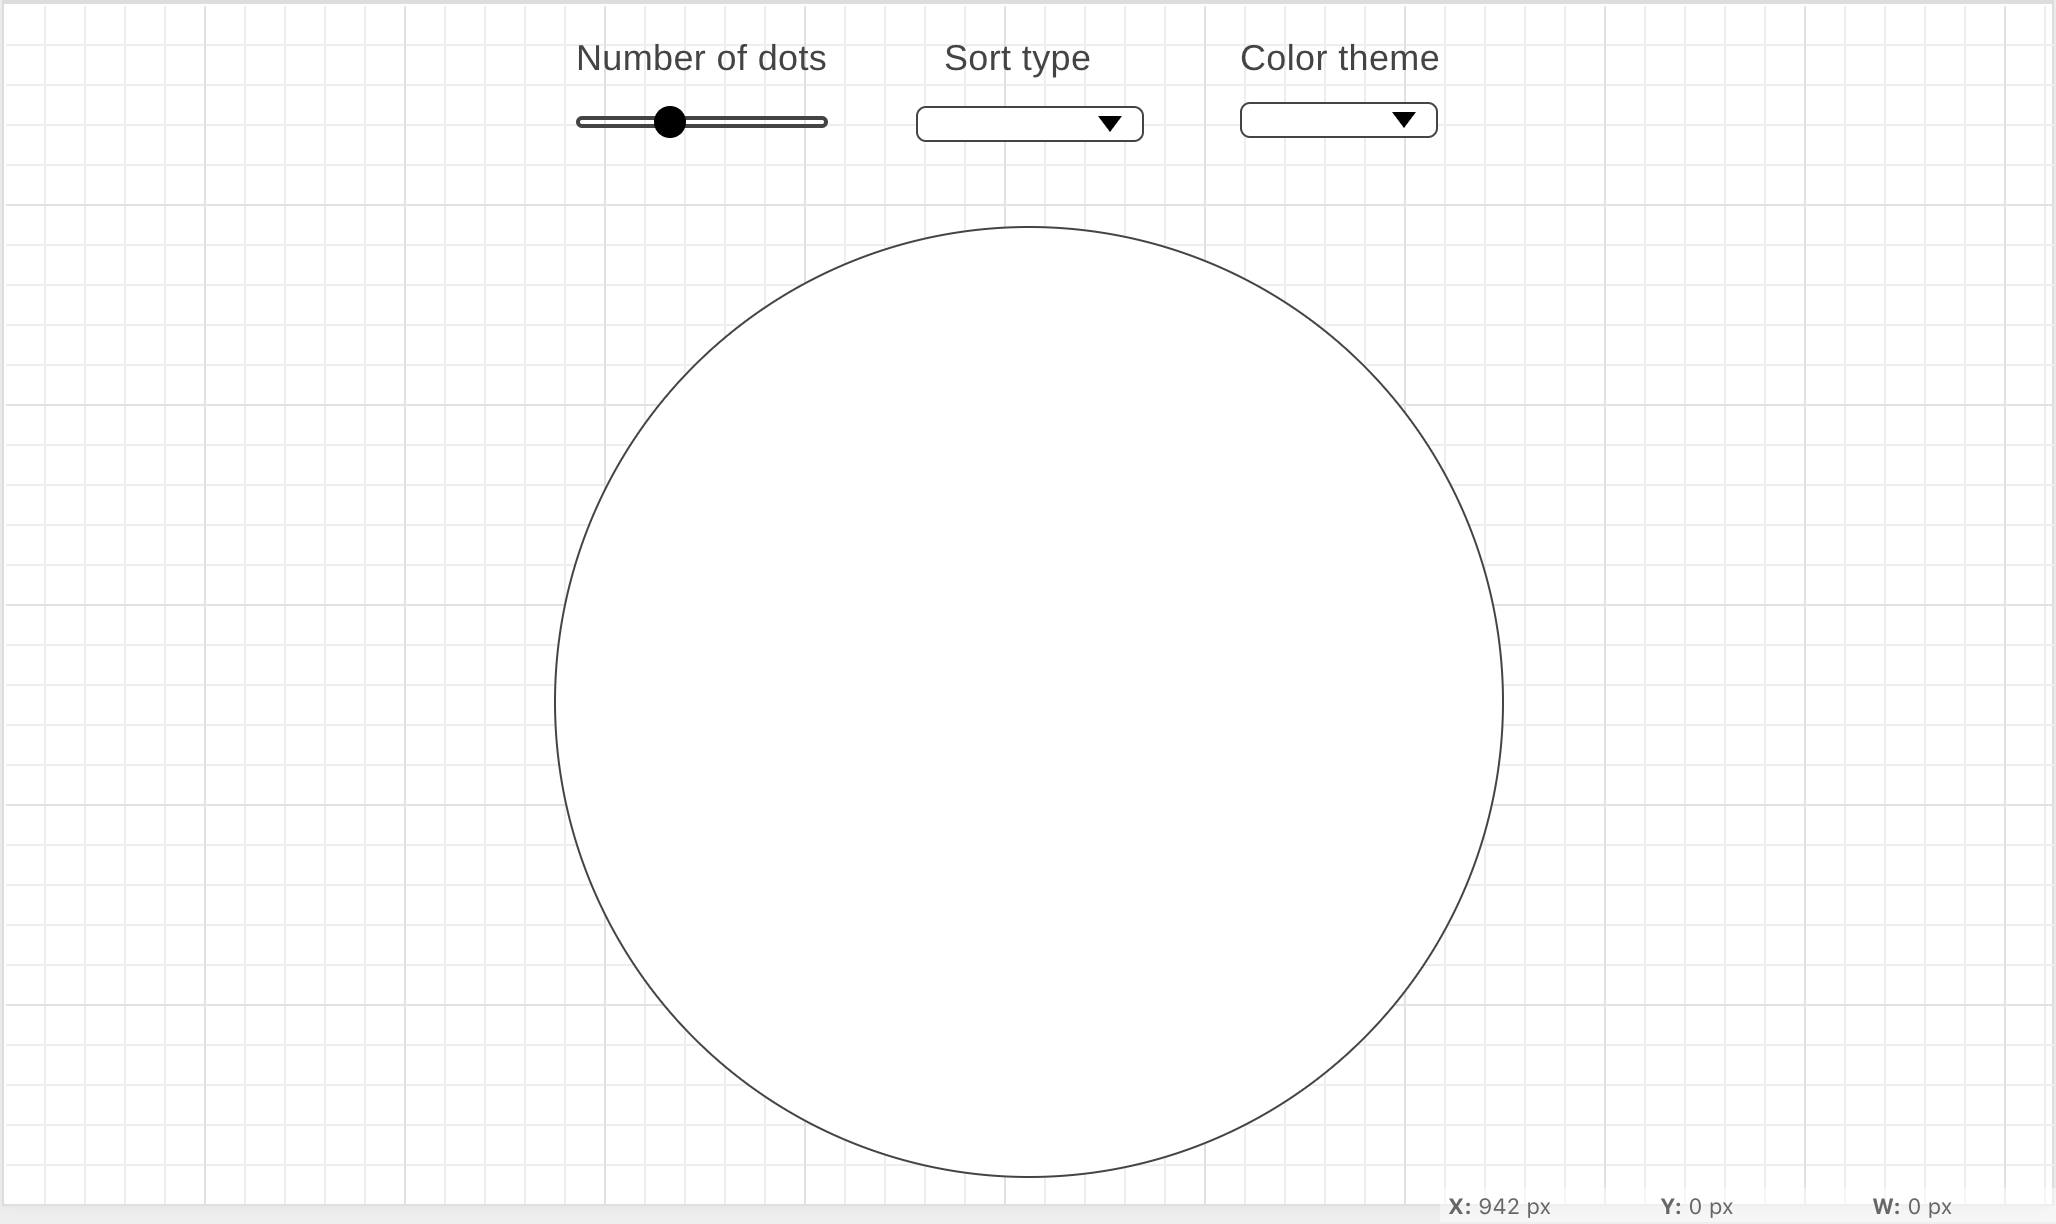
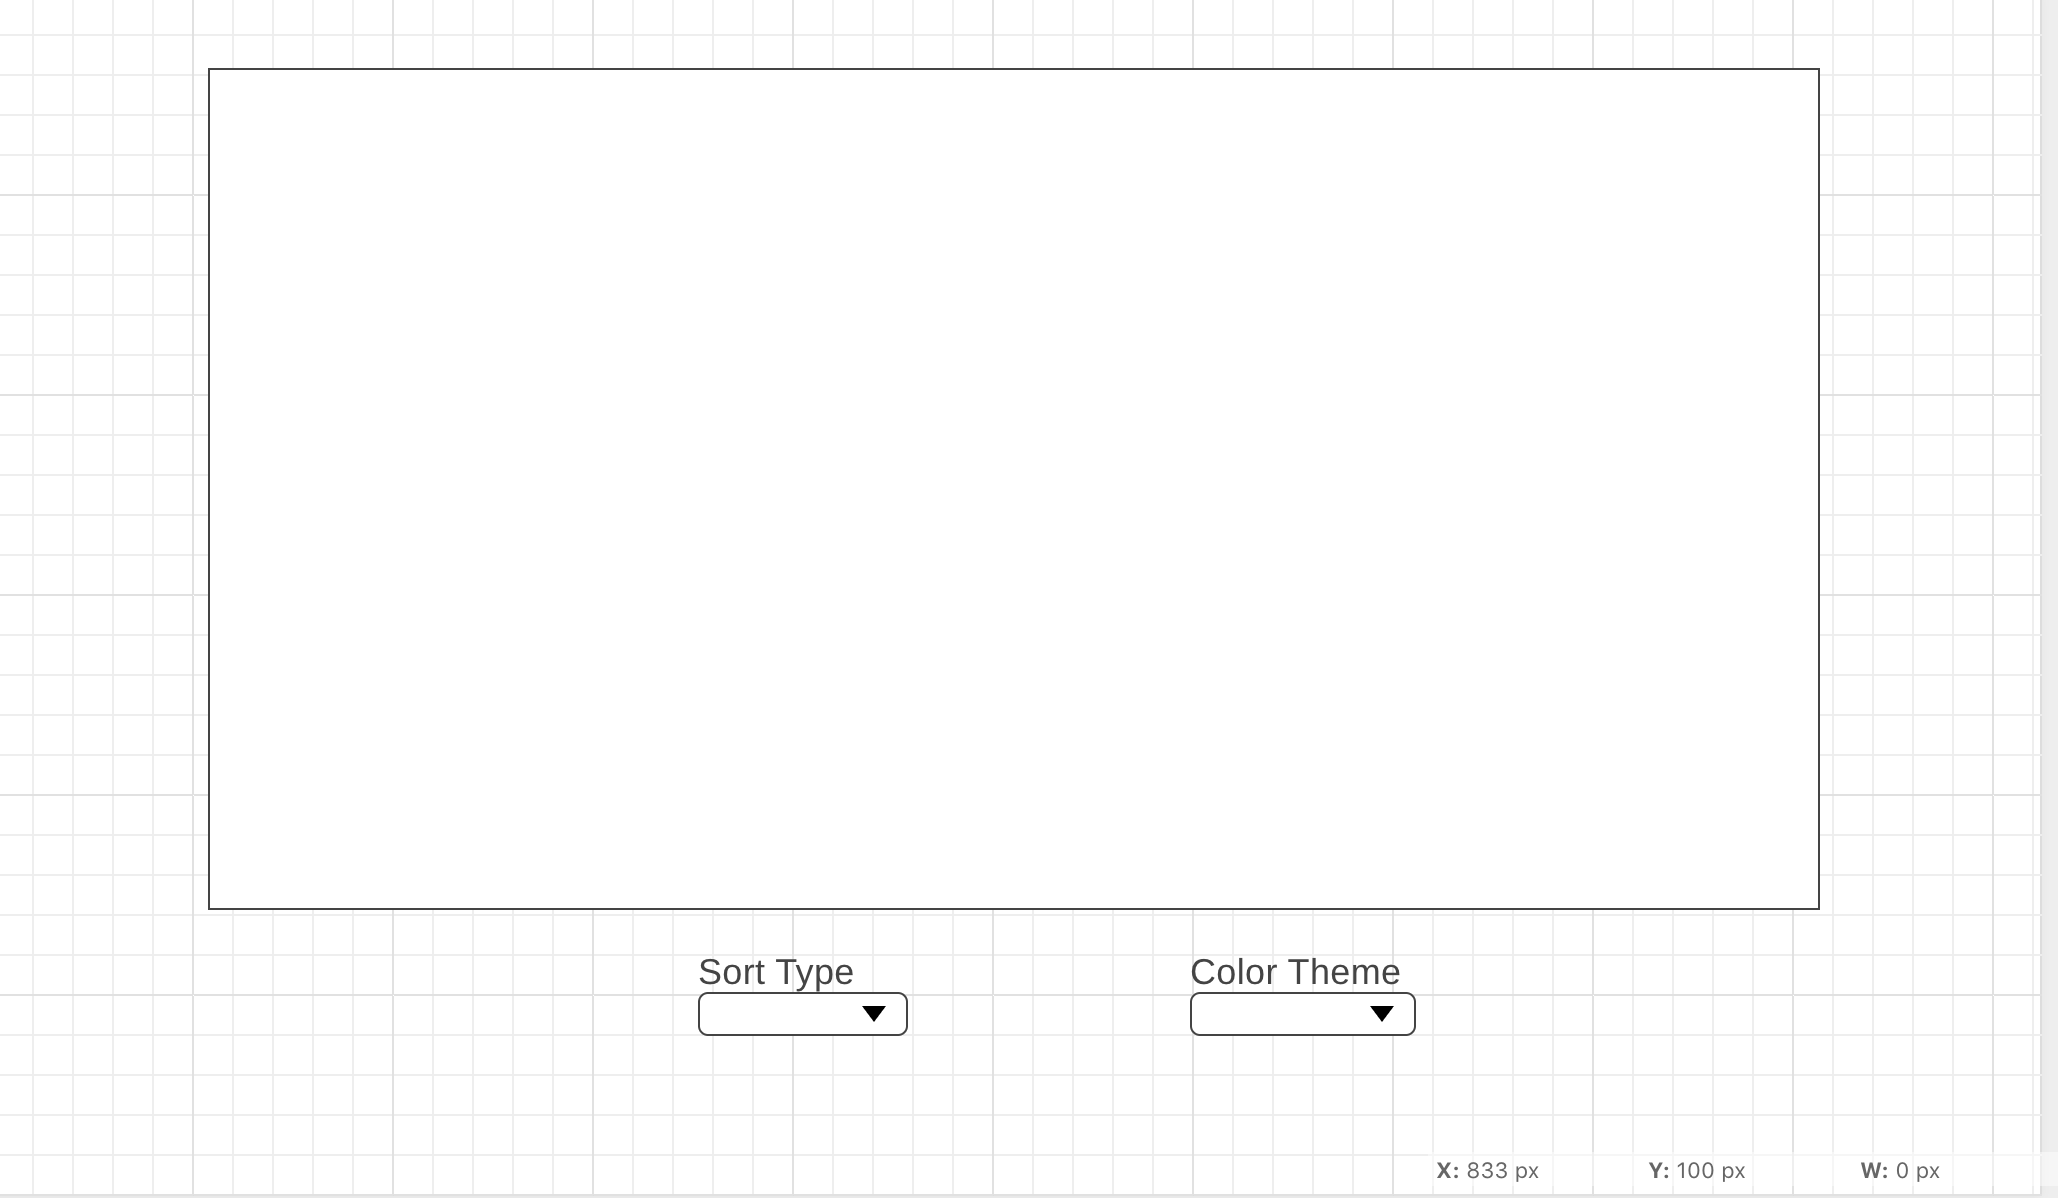
Add new wireframe

diff --git a/README.md b/README.md
@@ -2,16 +2,16 @@
 
 ## Background and Overview
 
-Radian is a visualization of some of the most popular sorting algorithms. Much of the focus of this project is to not only showcase the functionality of the algorithms but also to highlight the aesthetics and appeal of data in a 2D space.
+Align is a visualization of some of the most popular sorting algorithms. Much of the focus of this project is to not only showcase the functionality of the algorithms but also to highlight the aesthetics and appeal of data in a 2D space.
 
 ## Functionality and MVP Features
 
-In Radian, users will be able to:
+In Align, users will be able to:
 
 * Choose the type of sorting algorithm they want to see
-* Choose the number of 'points', which will also determine the speed of sorting
+* Choose the number of 'bars', which will also determine the speed of sorting
 * Choose the color theme 
-* Start, pause, and restart the visualization
+* Start and restart the visualization
 
 ## Wireframe
 
@@ -44,4 +44,4 @@ This project was created with the following:
 
 ### Bonus
 
-* Additional shapes, not just a circle.
+* Additional shapes to be sorted into
